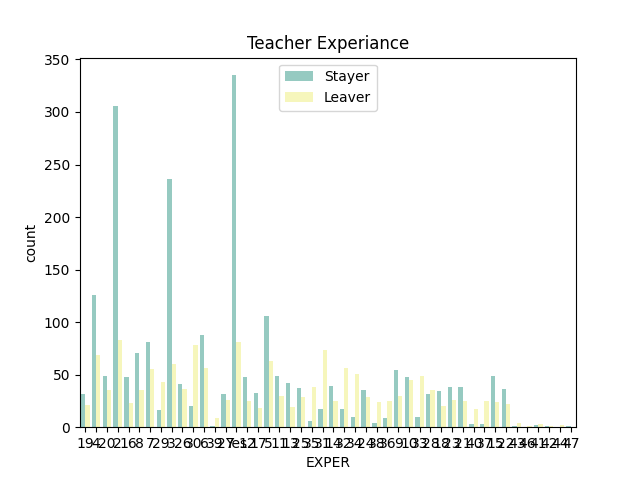
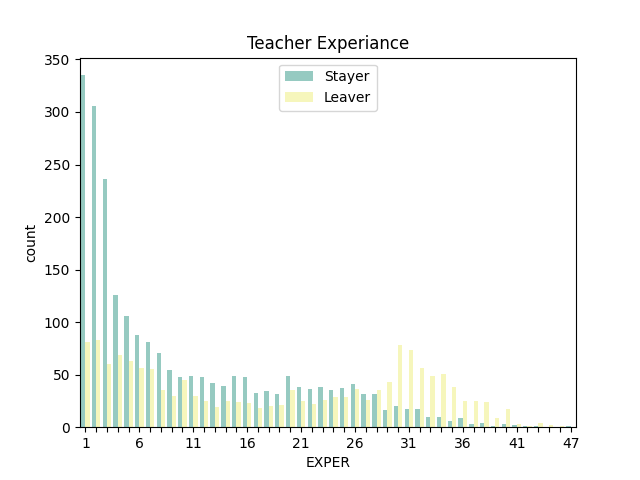
Fixed total experiance graph

Changed region(s): [[0.125, 0.1562, 0.375, 0.875], [0.4062, 0.6562, 0.8125, 0.875], [0.125, 0.9062, 0.9062, 0.9375]]

diff --git a/the_code/graphing_variables.py b/the_code/graphing_variables.py
@@ -111,18 +111,24 @@ def graphVariables():
     
 
     # df[''] = df[''].replace([0,1], ['', ''])
-graphVariables()
+
 
 
 def graphExperVar():
-    df['EXPER'] = df['EXPER'].replace([0,1], ['No', 'Yes'])
-    sns.countplot('EXPER', data=df, palette='Set3', hue='LEAVER')
+    plot_ = sns.countplot('EXPER', data=df, palette='Set3', hue='LEAVER')
+
+    for ind, label in enumerate(plot_.get_xticklabels()):
+        if ind % 5 == 0:  # every 10th label is kept
+            label.set_visible(True)
+        else:
+            label.set_visible(False)
+
     plt.legend(['Stayer','Leaver'])
     plt.title('Teacher Experiance')
-    plt.show(block=False)
+    plt.show(block=False) 
     plt.savefig('profiling/presentation_graphs/teacher_experiance.png') 
     plt.pause(2)
     plt.close()
 
-
+# graphVariables()
 graphExperVar()
